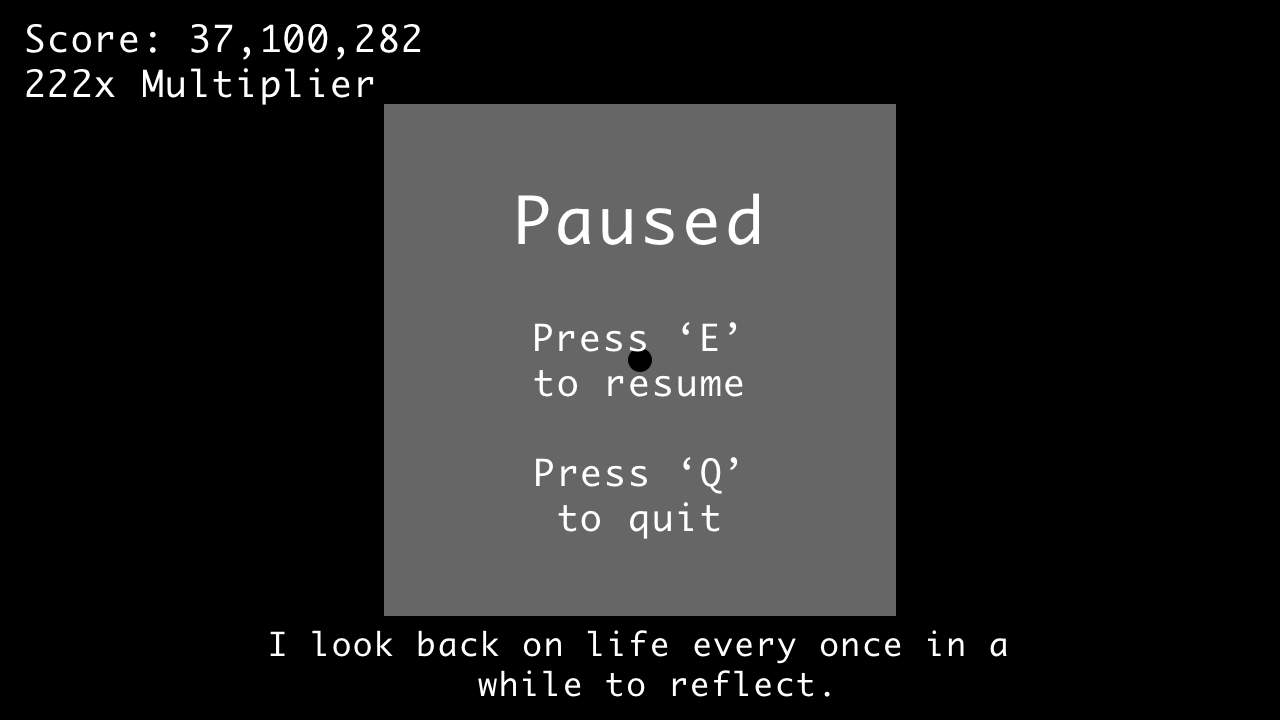
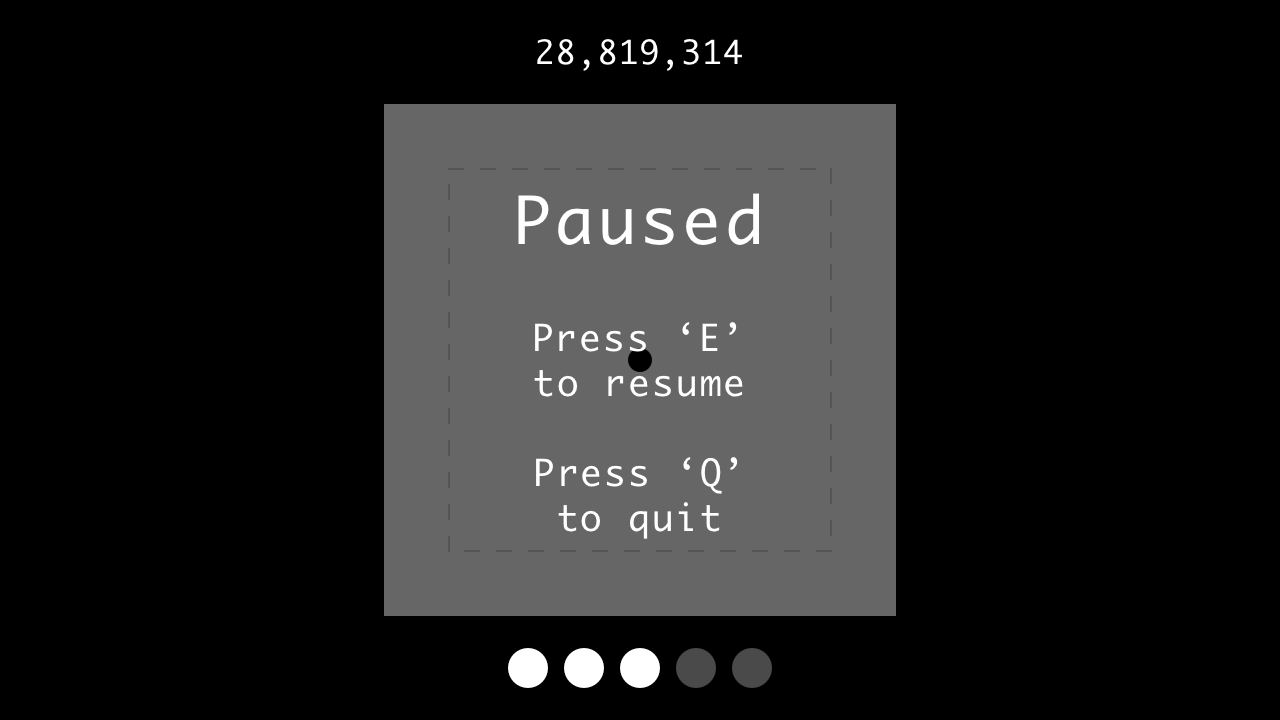
Updated visuals with new designs

diff --git a/design-docs/narrative.md b/design-docs/narrative.md
@@ -10,6 +10,7 @@
 * we each have our choices
 * narrator thinks it's happening to them, but it's happening because of them
 * no matter what happens to us or what we would like to happen, our sphere of influence is small. the world that we truly own is a tiny one
+* we play games and things that we get sucked in to, emphasizing our role
 
 ## Story beats
 
@@ -49,6 +50,46 @@ Thanks for coming over to play. It's been a while since I've had anyone other th
 She can get pretty busy with work. 
 
 choose between old girlfriend story/engagement story/work promotion/having a child story
+
+I used to work like crazy myself. Back before you worked here, maybe a year or two ago.
+
+The managers seemed to really reward people who worked a ton.
+
+At least, they made it look like they worked a ton. 
+
+Don't get me wrong, some of them weren't bad.
+
+But a lot of those guys were just loudmouths. 
+
+It bothered me, to see these people get so much credit.
+
+I thought if you just focused on keeping your head down and getting stuff done, people would notice.
+
+But I tried that for like five years and barely got any kind of response.
+
+Do you feel like that at all? Like, you get a lot done, but does anyone else see that?
+
+storyThread = [{
+    "text" : "It got to me man. One weekend I stayed in the office trying to finish up for a deadline.",
+    "delayMS" : 1000,
+    "correspondingPowerup" : SpeedUp
+}]
+
+storyThreads[];
+
+story = [storyThreads[0], jumble(storyThreads[1], storyThreads[storyThreads.length-2]), storyThreads[storyThreads.length-1]];
+
+The project launched successfully, and I went home and slept.
+
+My manager pulled the team together the next morning to congratulate us.
+
+She thanked Tomas especially for this effort in getting the project done on time.
+
+
+
+I didn't know how to play the game I guess.
+
+
 
 
 ### Powerups to integrate
